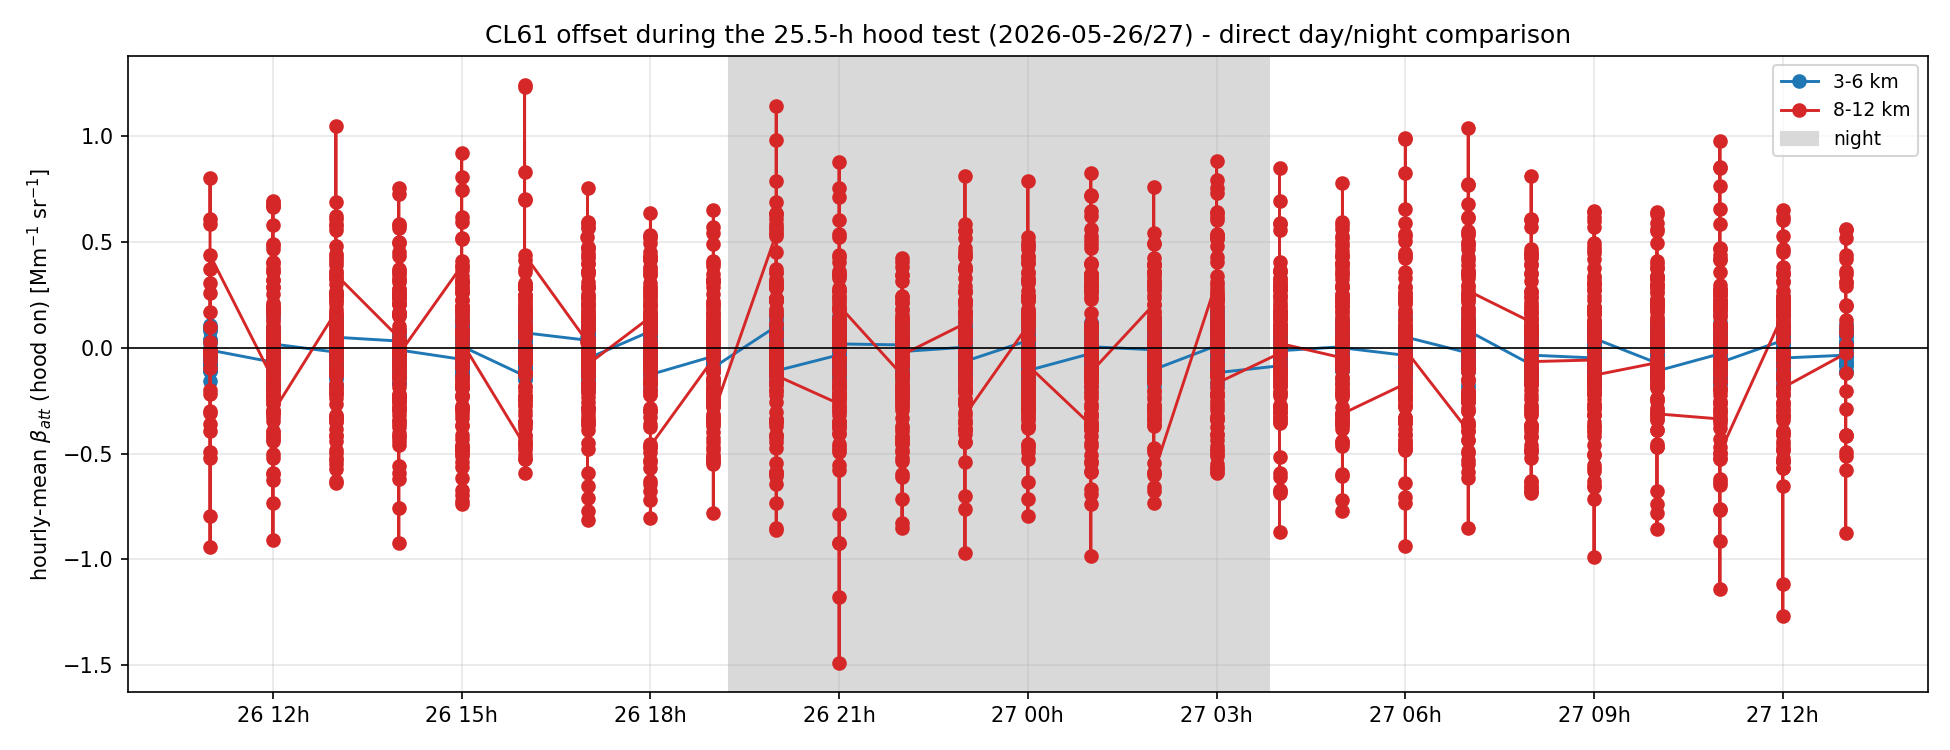
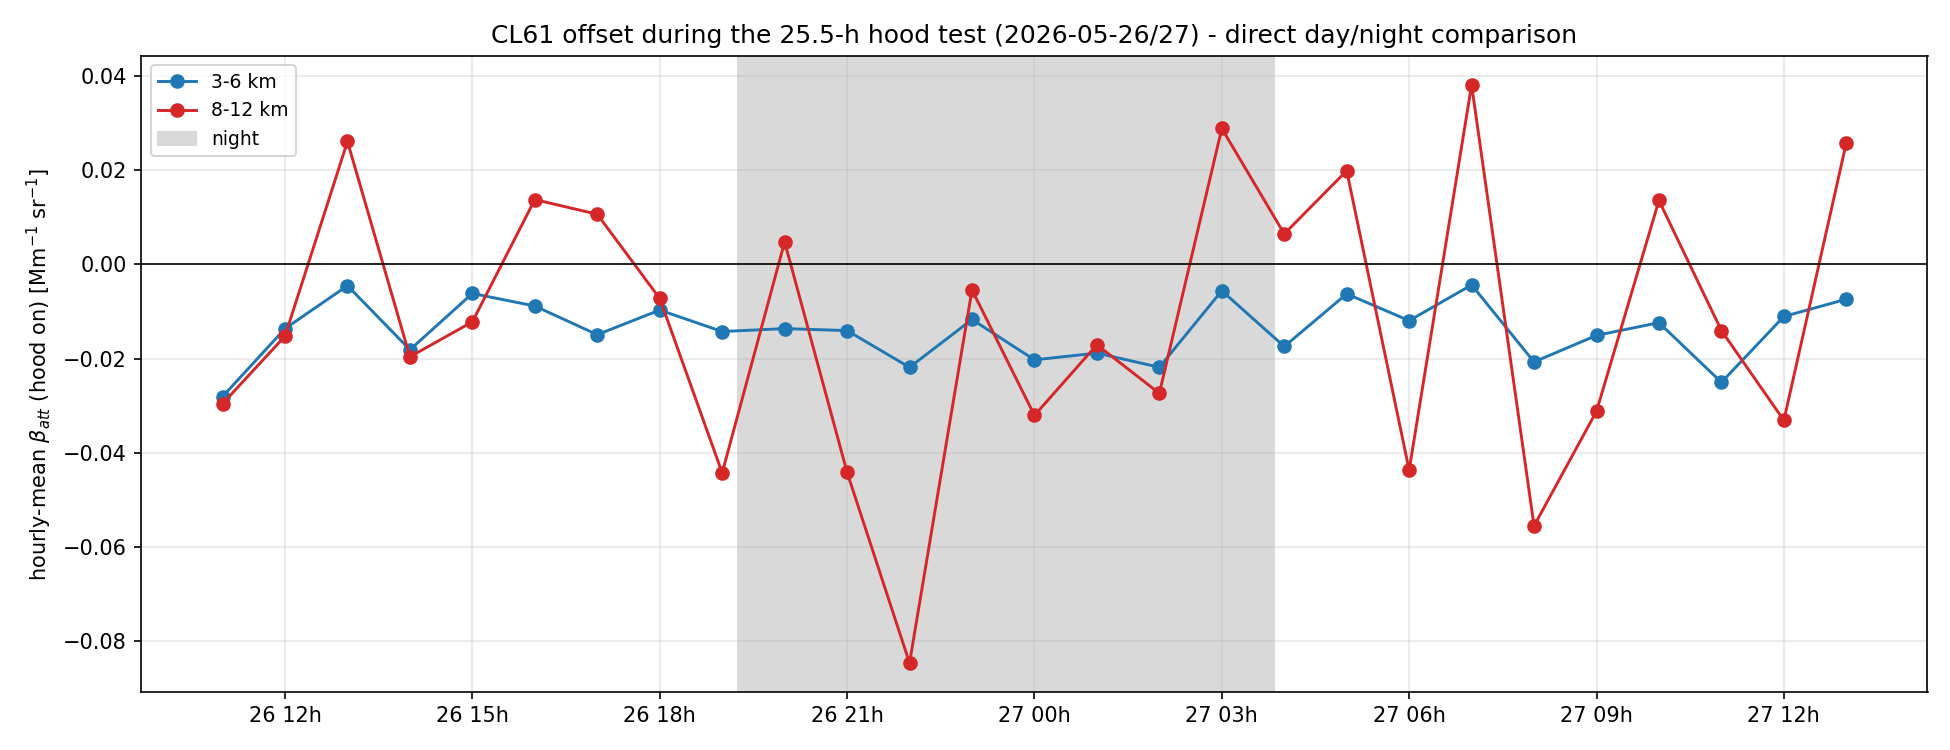
fix hourly binning (microseconds) in the hood night figure

diff --git a/validation/paper/_cl61_hood_night_variability.py b/validation/paper/_cl61_hood_night_variability.py
@@ -30,7 +30,7 @@ tt = np.array(tt)
 assert len(tt) == X.shape[0], (len(tt), X.shape)
 
 BANDS = [(3000, 6000), (8000, 12000)]
-hours = np.array([t.replace(minute=0, second=0) for t in tt])
+hours = np.array([t.replace(minute=0, second=0, microsecond=0) for t in tt])
 uh = sorted(set(hours))
 series = {b: [] for b in BANDS}
 for h in uh:
